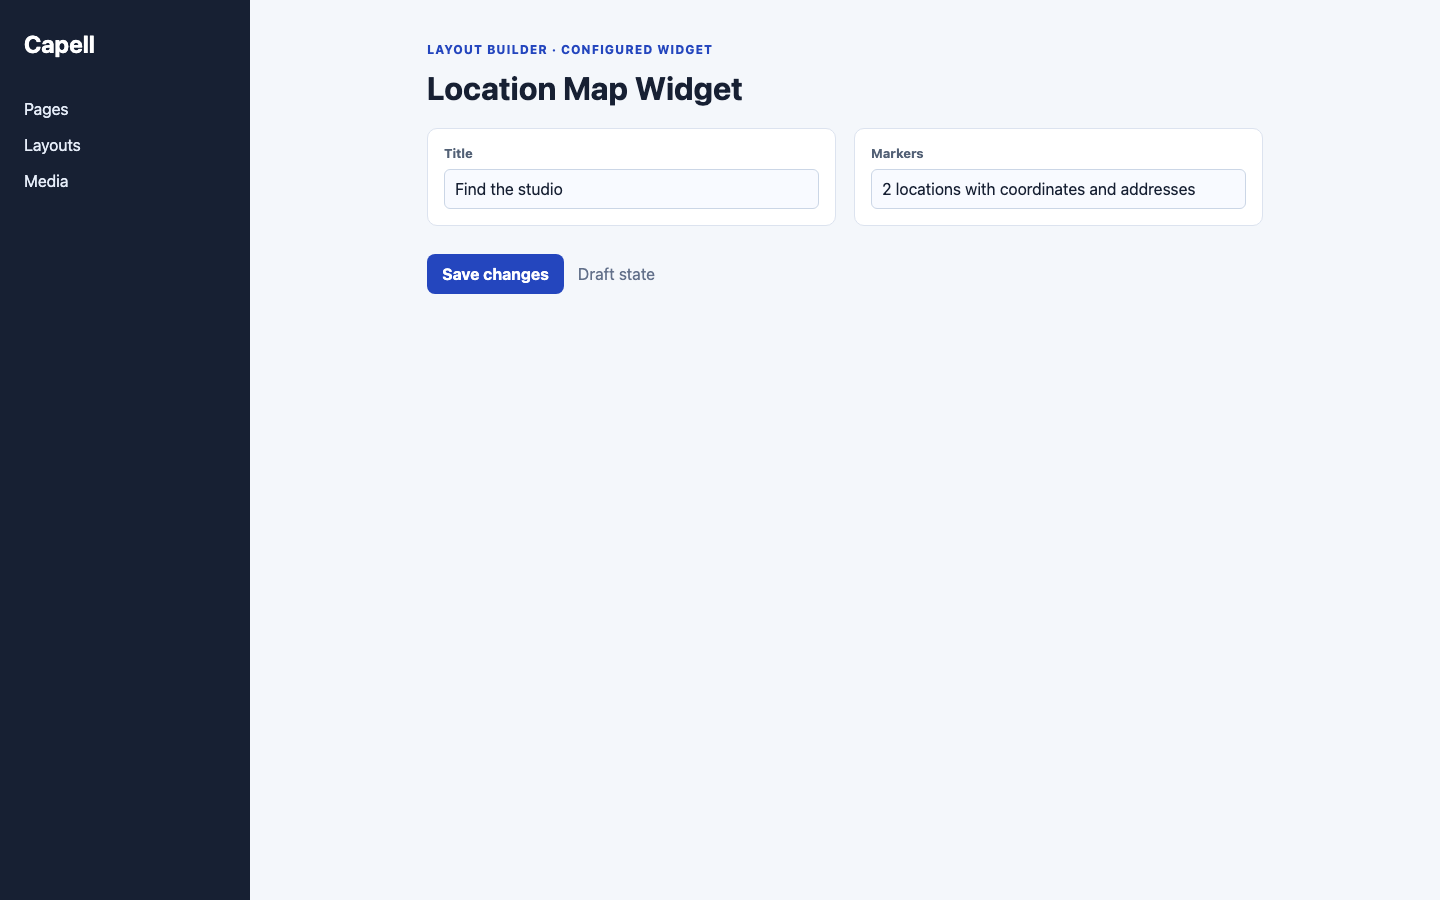
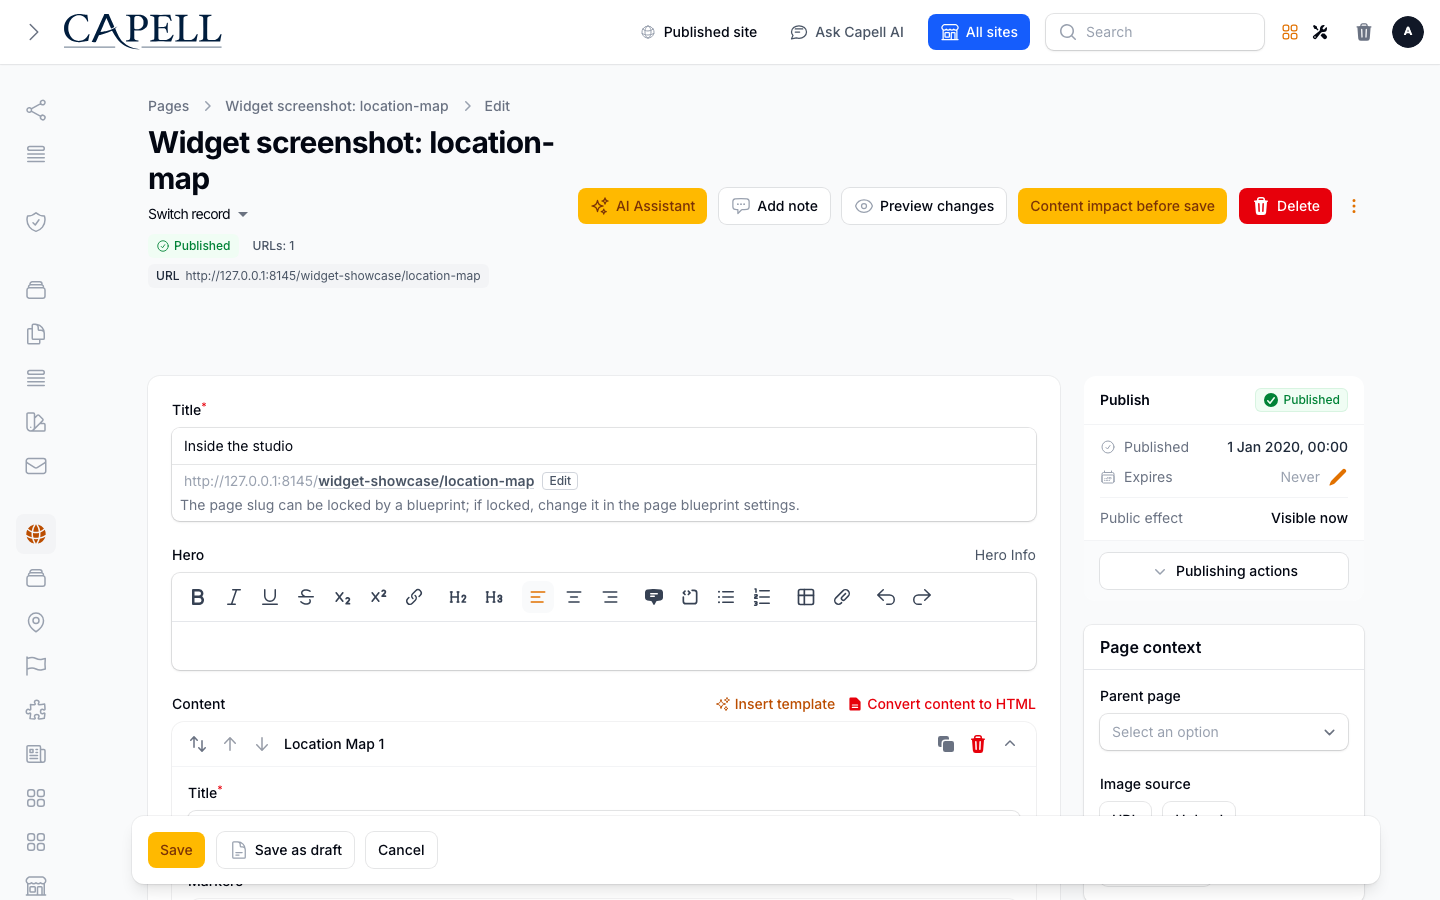
Release v1.1.0-beta.43

diff --git a/resources/dist/widget.js b/resources/dist/widget.js
@@ -1,4 +1,4 @@
-document.querySelectorAll('[data-capell-location-map]').forEach((root) =>
+document.querySelectorAll('[data-capell-widget-location-map]').forEach((root) =>
     root.querySelector('[data-map-activate]')?.addEventListener('click', () => {
         const status = root.querySelector('[data-map-status]')
         if (window.CapellPrivacy?.allows?.('openstreetmap') === false) {

diff --git a/tests/Feature/WidgetLocationMapTest.php b/tests/Feature/WidgetLocationMapTest.php
@@ -1,11 +1,15 @@
 <?php
 
 declare(strict_types=1);
+use Capell\Frontend\Actions\AssertPublicHtmlContainsNoAuthoringSurfaceAction;
+use Capell\Frontend\Support\Security\PublicHtmlSafetyInspector;
 use Capell\WidgetLocationMap\Data\LocationMapInputData;
+use Capell\WidgetLocationMap\Data\LocationMapRenderData;
 use Capell\WidgetLocationMap\Data\LocationMarkerData;
 use Capell\WidgetLocationMap\Health\WidgetLocationMapHealthCheck;
 use Capell\WidgetLocationMap\Providers\WidgetLocationMapServiceProvider;
 use Illuminate\Validation\ValidationException;
+use Symfony\Component\HttpFoundation\Response;
 
 beforeEach(function (): void {
     $this->app->register(WidgetLocationMapServiceProvider::class);
@@ -14,5 +18,23 @@ it('builds an ordinary map link and healthy surfaces', function (): void {
     expect(LocationMarkerData::from(['label' => 'Office', 'latitude' => 52.4862, 'longitude' => -1.8904])->mapUrl())->toContain('openstreetmap.org')->and(WidgetLocationMapHealthCheck::passed())->toBeTrue();
 });
 it('rejects invalid coordinates', function (): void {
-    expect(fn () => LocationMapInputData::validateAndCreate(['title' => 'Map', 'markers' => [['label' => 'Bad', 'latitude' => 91, 'longitude' => 181]]]))->toThrow(ValidationException::class);
+    expect(fn (): LocationMapInputData => LocationMapInputData::validateAndCreate(['title' => 'Map', 'markers' => [['label' => 'Bad', 'latitude' => 91, 'longitude' => 181]]]))->toThrow(ValidationException::class);
+});
+
+it('renders public location-map markup accepted by the public HTML safety action', function (): void {
+    $renderData = LocationMapRenderData::from(['title' => 'Office', 'markers' => [['label' => 'Office', 'latitude' => 52.4862, 'longitude' => -1.8904]]]);
+    $html = view('capell-widget-location-map::widget', ['renderData' => $renderData])->render();
+
+    expect($html)->toContain('data-capell-widget-location-map')
+        ->not->toContain('data-capell-location-map');
+
+    AssertPublicHtmlContainsNoAuthoringSurfaceAction::run(new Response(
+        '<!doctype html><html><body>' . $html . '</body></html>',
+        Response::HTTP_OK,
+        ['Content-Type' => 'text/html'],
+    ));
+
+    expect(resolve(PublicHtmlSafetyInspector::class)->containsAuthoringSurface(
+        '<section data-capell-location-map>Widget</section>',
+    ))->toBeTrue();
 });

diff --git a/resources/views/widget.blade.php b/resources/views/widget.blade.php
@@ -1,7 +1,7 @@
 @php /** @var \Capell\WidgetLocationMap\Data\LocationMapRenderData $renderData */ $first = $renderData->markers->first(); @endphp
 <section
     class="capell-location-map"
-    data-capell-location-map
+    data-capell-widget-location-map
     data-latitude="{{ $first->latitude }}"
     data-longitude="{{ $first->longitude }}"
 >

diff --git a/README.md b/README.md
@@ -10,8 +10,6 @@ Location Map adds a Layout Builder widget for validated place markers with ordin
 
 Editors configure locations in Layout Builder, and visitors initially receive useful map links with the choice to activate the richer public map.
 
-Evidence: [`src/Filament/LocationMapWidget.php`](src/Filament/LocationMapWidget.php), [`resources/views/widget.blade.php`](resources/views/widget.blade.php), [`tests/Feature/WidgetLocationMapTest.php`](tests/Feature/WidgetLocationMapTest.php), [`capell.json`](capell.json).
-
 Status details:
 
 - Status: Available
@@ -27,19 +25,17 @@ Status details:
 
 **For teams:** Teams can publish useful location details before asking visitors to load an external map experience.
 
-Evidence: [`src/Providers/WidgetLocationMapServiceProvider.php`](src/Providers/WidgetLocationMapServiceProvider.php), [`src/Filament/LocationMapWidget.php`](src/Filament/LocationMapWidget.php), [`tests/Feature/WidgetLocationMapTest.php`](tests/Feature/WidgetLocationMapTest.php), [`resources/views/widget.blade.php`](resources/views/widget.blade.php).
-
 ## Screens And Workflow
 
 Screenshot contract: `docs/screenshots.json`.
 
 ![Location Map Widget extension card](docs/screenshots/extension-card.svg)
 
-![Illustrative location map public output preview](docs/screenshots/location-map-public-output.png)
+![Location Map public output](docs/screenshots/location-map-public-output.png)
 
 - Location Map Widget extension card (marketplace, required evidence).
 - Location Map fields in Layout Builder (admin, supplementary evidence).
-- Illustrative location map public output preview (frontend, required evidence).
+- Location Map public output (frontend, required evidence).
 - Location Map fields in Layout Builder with admin sidebar menu open (admin, supplementary evidence).
 
 ## Technical Shape
@@ -109,7 +105,7 @@ This package has no schema impact. It extends Capell through `content-widget` co
 ## Quick Start
 
 1. Install the package: `composer require capell-app/widget-location-map`.
-2. Open `/screenshot-fixtures/catalogue/widget-location-map/location-map-public-output` and confirm the public output renders without admin state.
+2. Open the package detail or install-intent surface and confirm the Location Map Widget extension card is present.
 
 ## Next Steps
 
@@ -122,6 +118,5 @@ This package has no schema impact. It extends Capell through `content-widget` co
 - [Capell documentation design system](../../docs/DESIGN_SYSTEM.md)
 - [Capell and package ERD notes](../../docs/erd/capell-and-package-erds.md)
 - Related packages: [Layout Builder](../layout-builder/README.md), [Privacy Center](../privacy-center/README.md).
-- Focused tests: `vendor/bin/pest packages/widget-location-map/tests --configuration=phpunit.xml`.
 
 <!-- prettier-ignore-end -->
